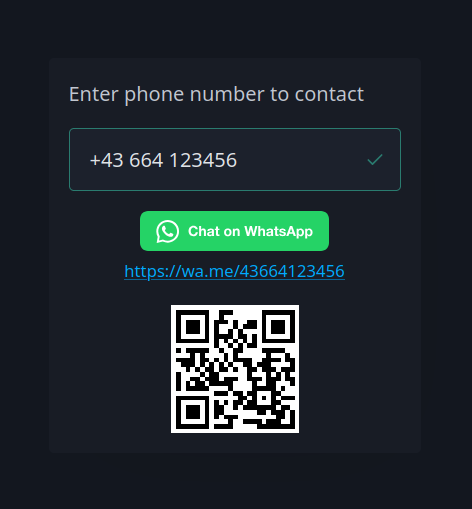
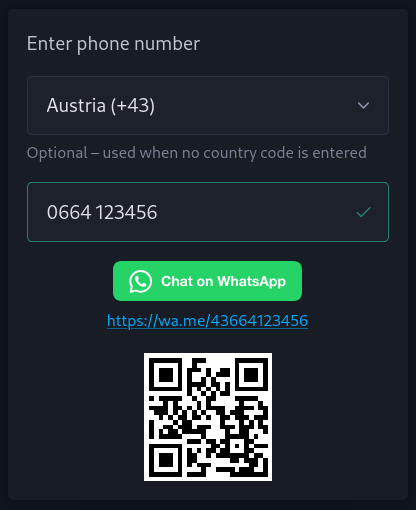
Updated readme, added default country (from locale)

diff --git a/src/app/app.component.ts b/src/app/app.component.ts
@@ -25,7 +25,7 @@ interface CountryOption {
   styleUrl: './app.component.css',
 })
 export class AppComponent implements OnInit {
-  private readonly countryStorageKey = 'country';
+  private readonly countryStorageKey = 'wa-linker-country';
   private readonly fallbackCountry: CountryCode = 'AT';
   selectedCountry = signal<CountryCode>(this.fallbackCountry);
   countries: CountryOption[];
@@ -59,7 +59,9 @@ export class AppComponent implements OnInit {
       this.setDocumentTheme(theme);
     }
 
-    const country = localStorage.getItem(this.countryStorageKey);
+    // Detect country from browser locale as a best-effort default (e.g. "de-AT" → "AT")
+    const country = localStorage.getItem(this.countryStorageKey)
+      ?? new Intl.Locale(navigator.language).region;
     if (country && getCountries().includes(country as CountryCode)) {
       this.selectedCountry.set(country as CountryCode);
     }

diff --git a/src/app/app.component.html b/src/app/app.component.html
@@ -16,6 +16,7 @@
         </option>
       }
     </select>
+    <small>Optional – used when no country code is entered</small>
     <input
       #number
       type="tel"

diff --git a/src/app/app.component.css b/src/app/app.component.css
@@ -1,5 +1,5 @@
 :host {
-  min-height: 100vh;
+  min-height: 100dvh;
   display: flex;
   flex-direction: column;
   padding: 20px;

diff --git a/README.md b/README.md
@@ -15,15 +15,3 @@ Run `ng generate component component-name` to generate a new component. You can 
 ## Build
 
 Run `ng build` to build the project. The build artifacts will be stored in the `dist/` directory.
-
-## Running unit tests
-
-Run `ng test` to execute the unit tests via [Karma](https://karma-runner.github.io).
-
-## Running end-to-end tests
-
-Run `ng e2e` to execute the end-to-end tests via a platform of your choice. To use this command, you need to first add a package that implements end-to-end testing capabilities.
-
-## Further help
-
-To get more help on the Angular CLI use `ng help` or go check out the [Angular CLI Overview and Command Reference](https://angular.dev/tools/cli) page.
